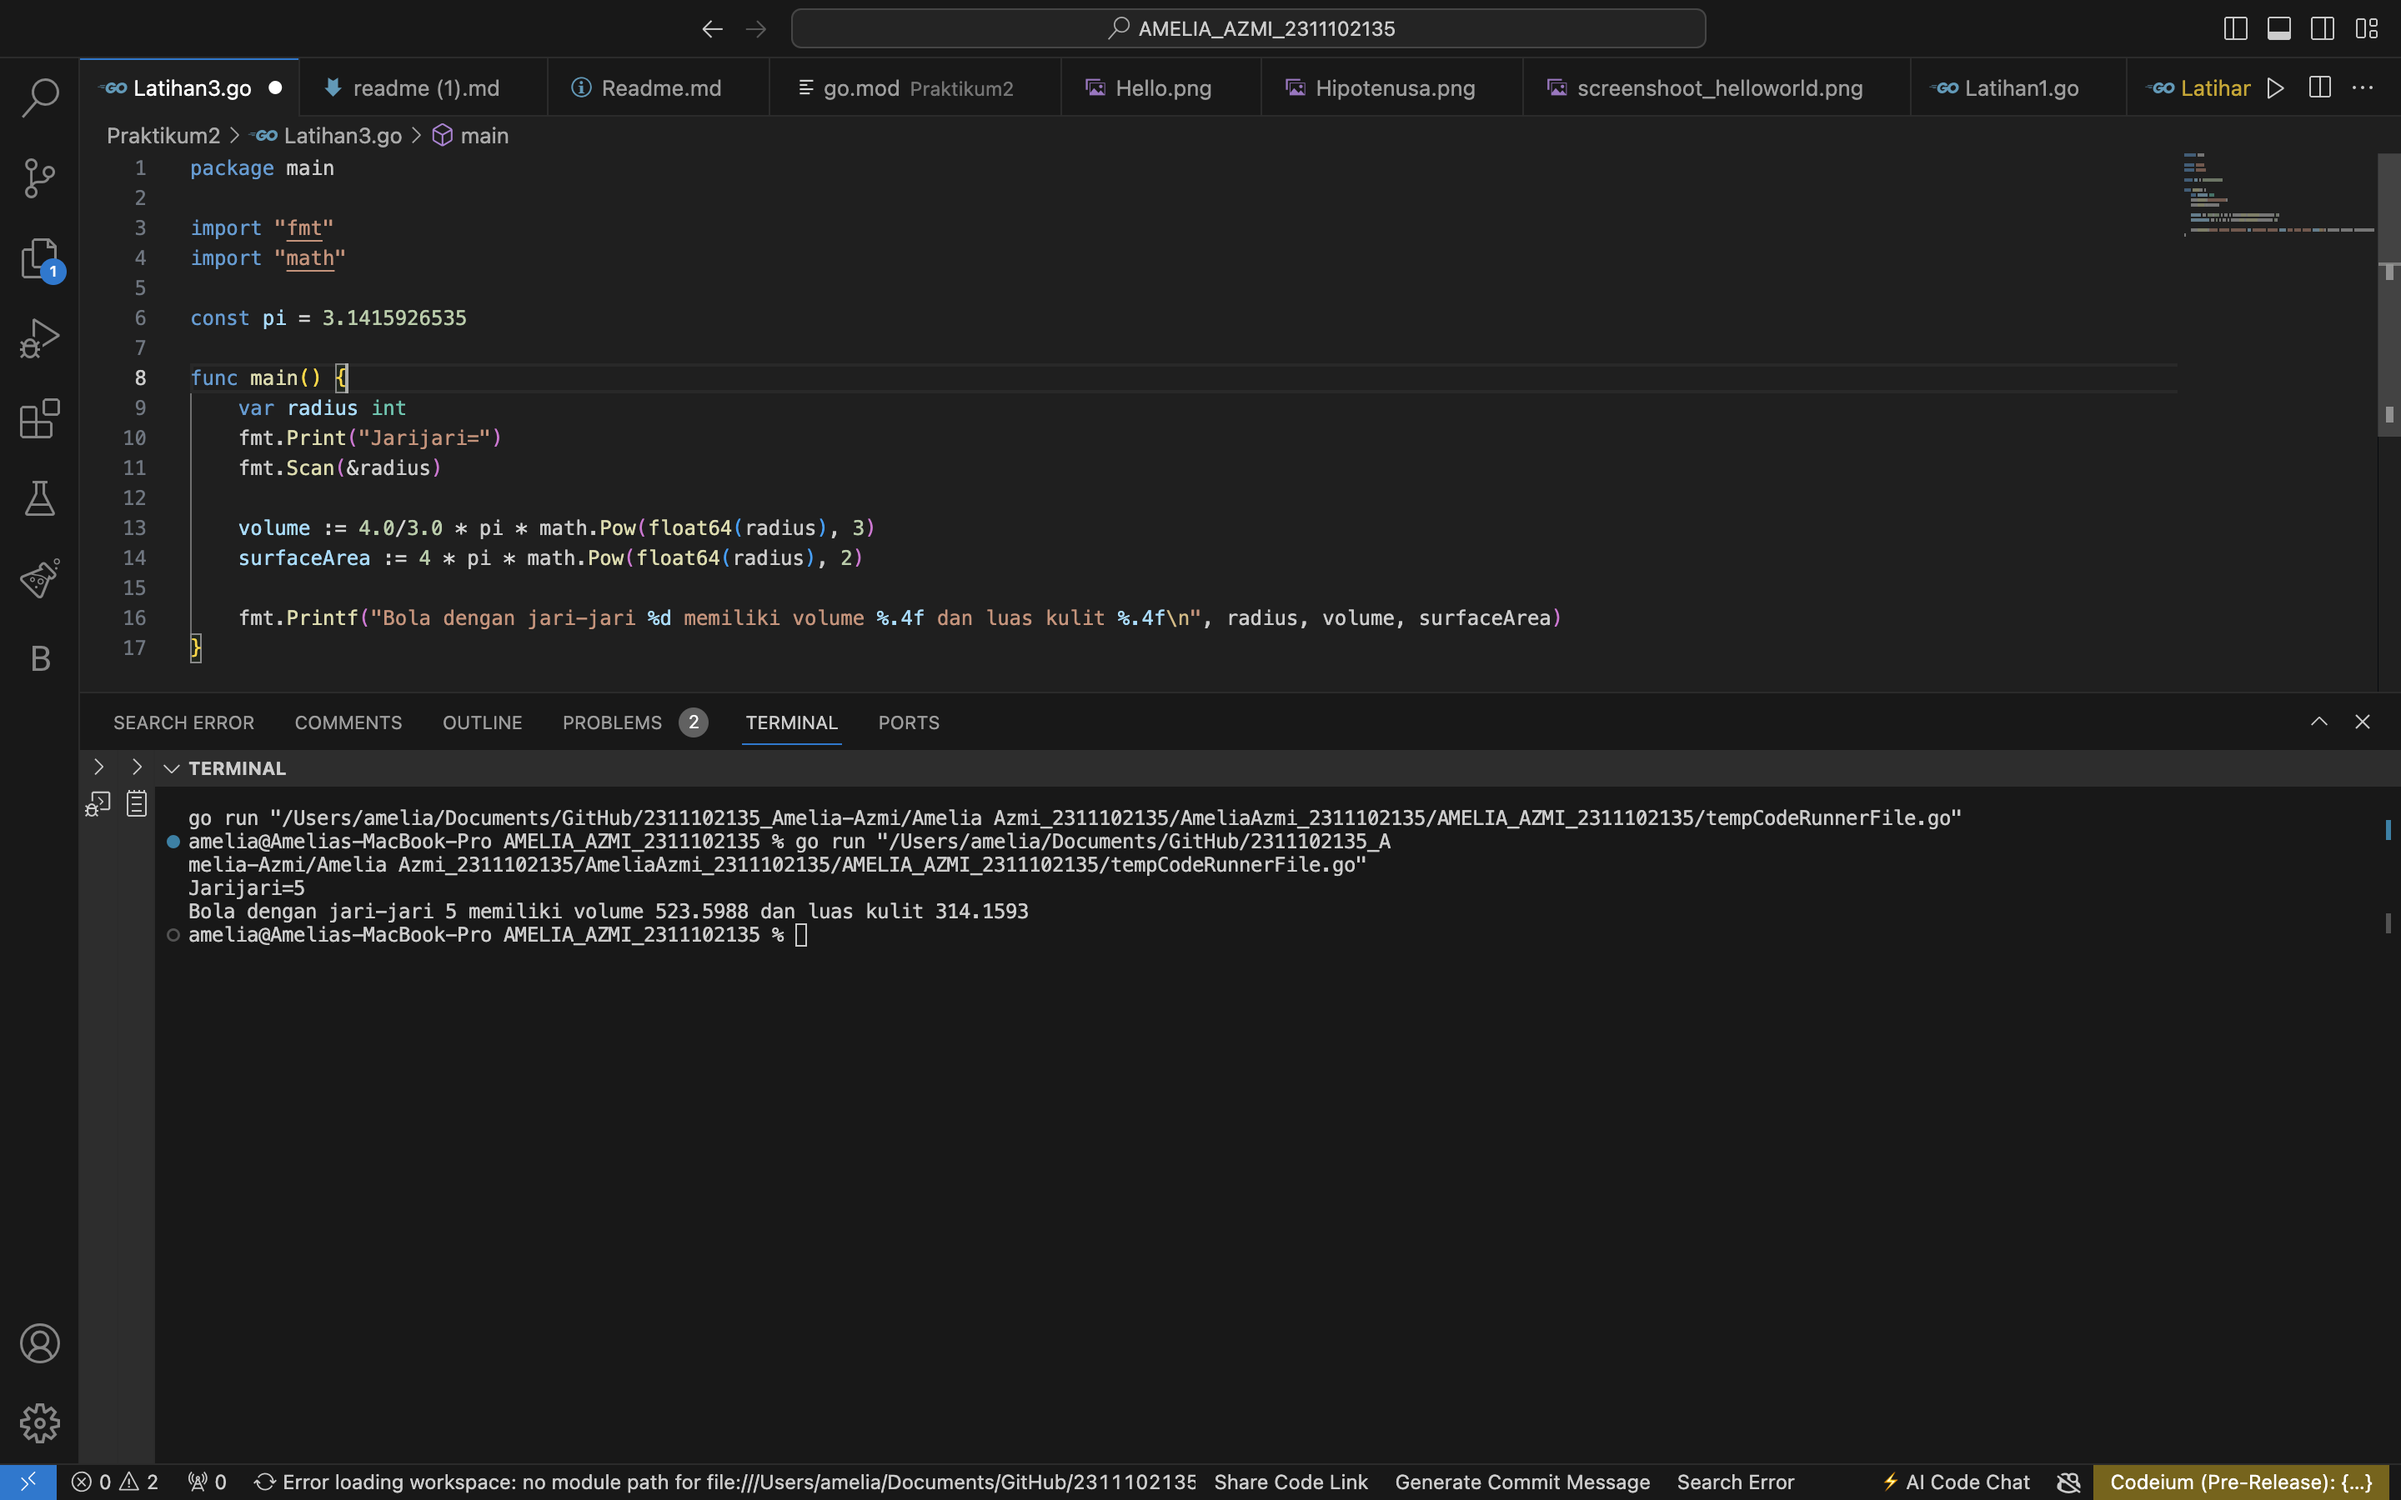
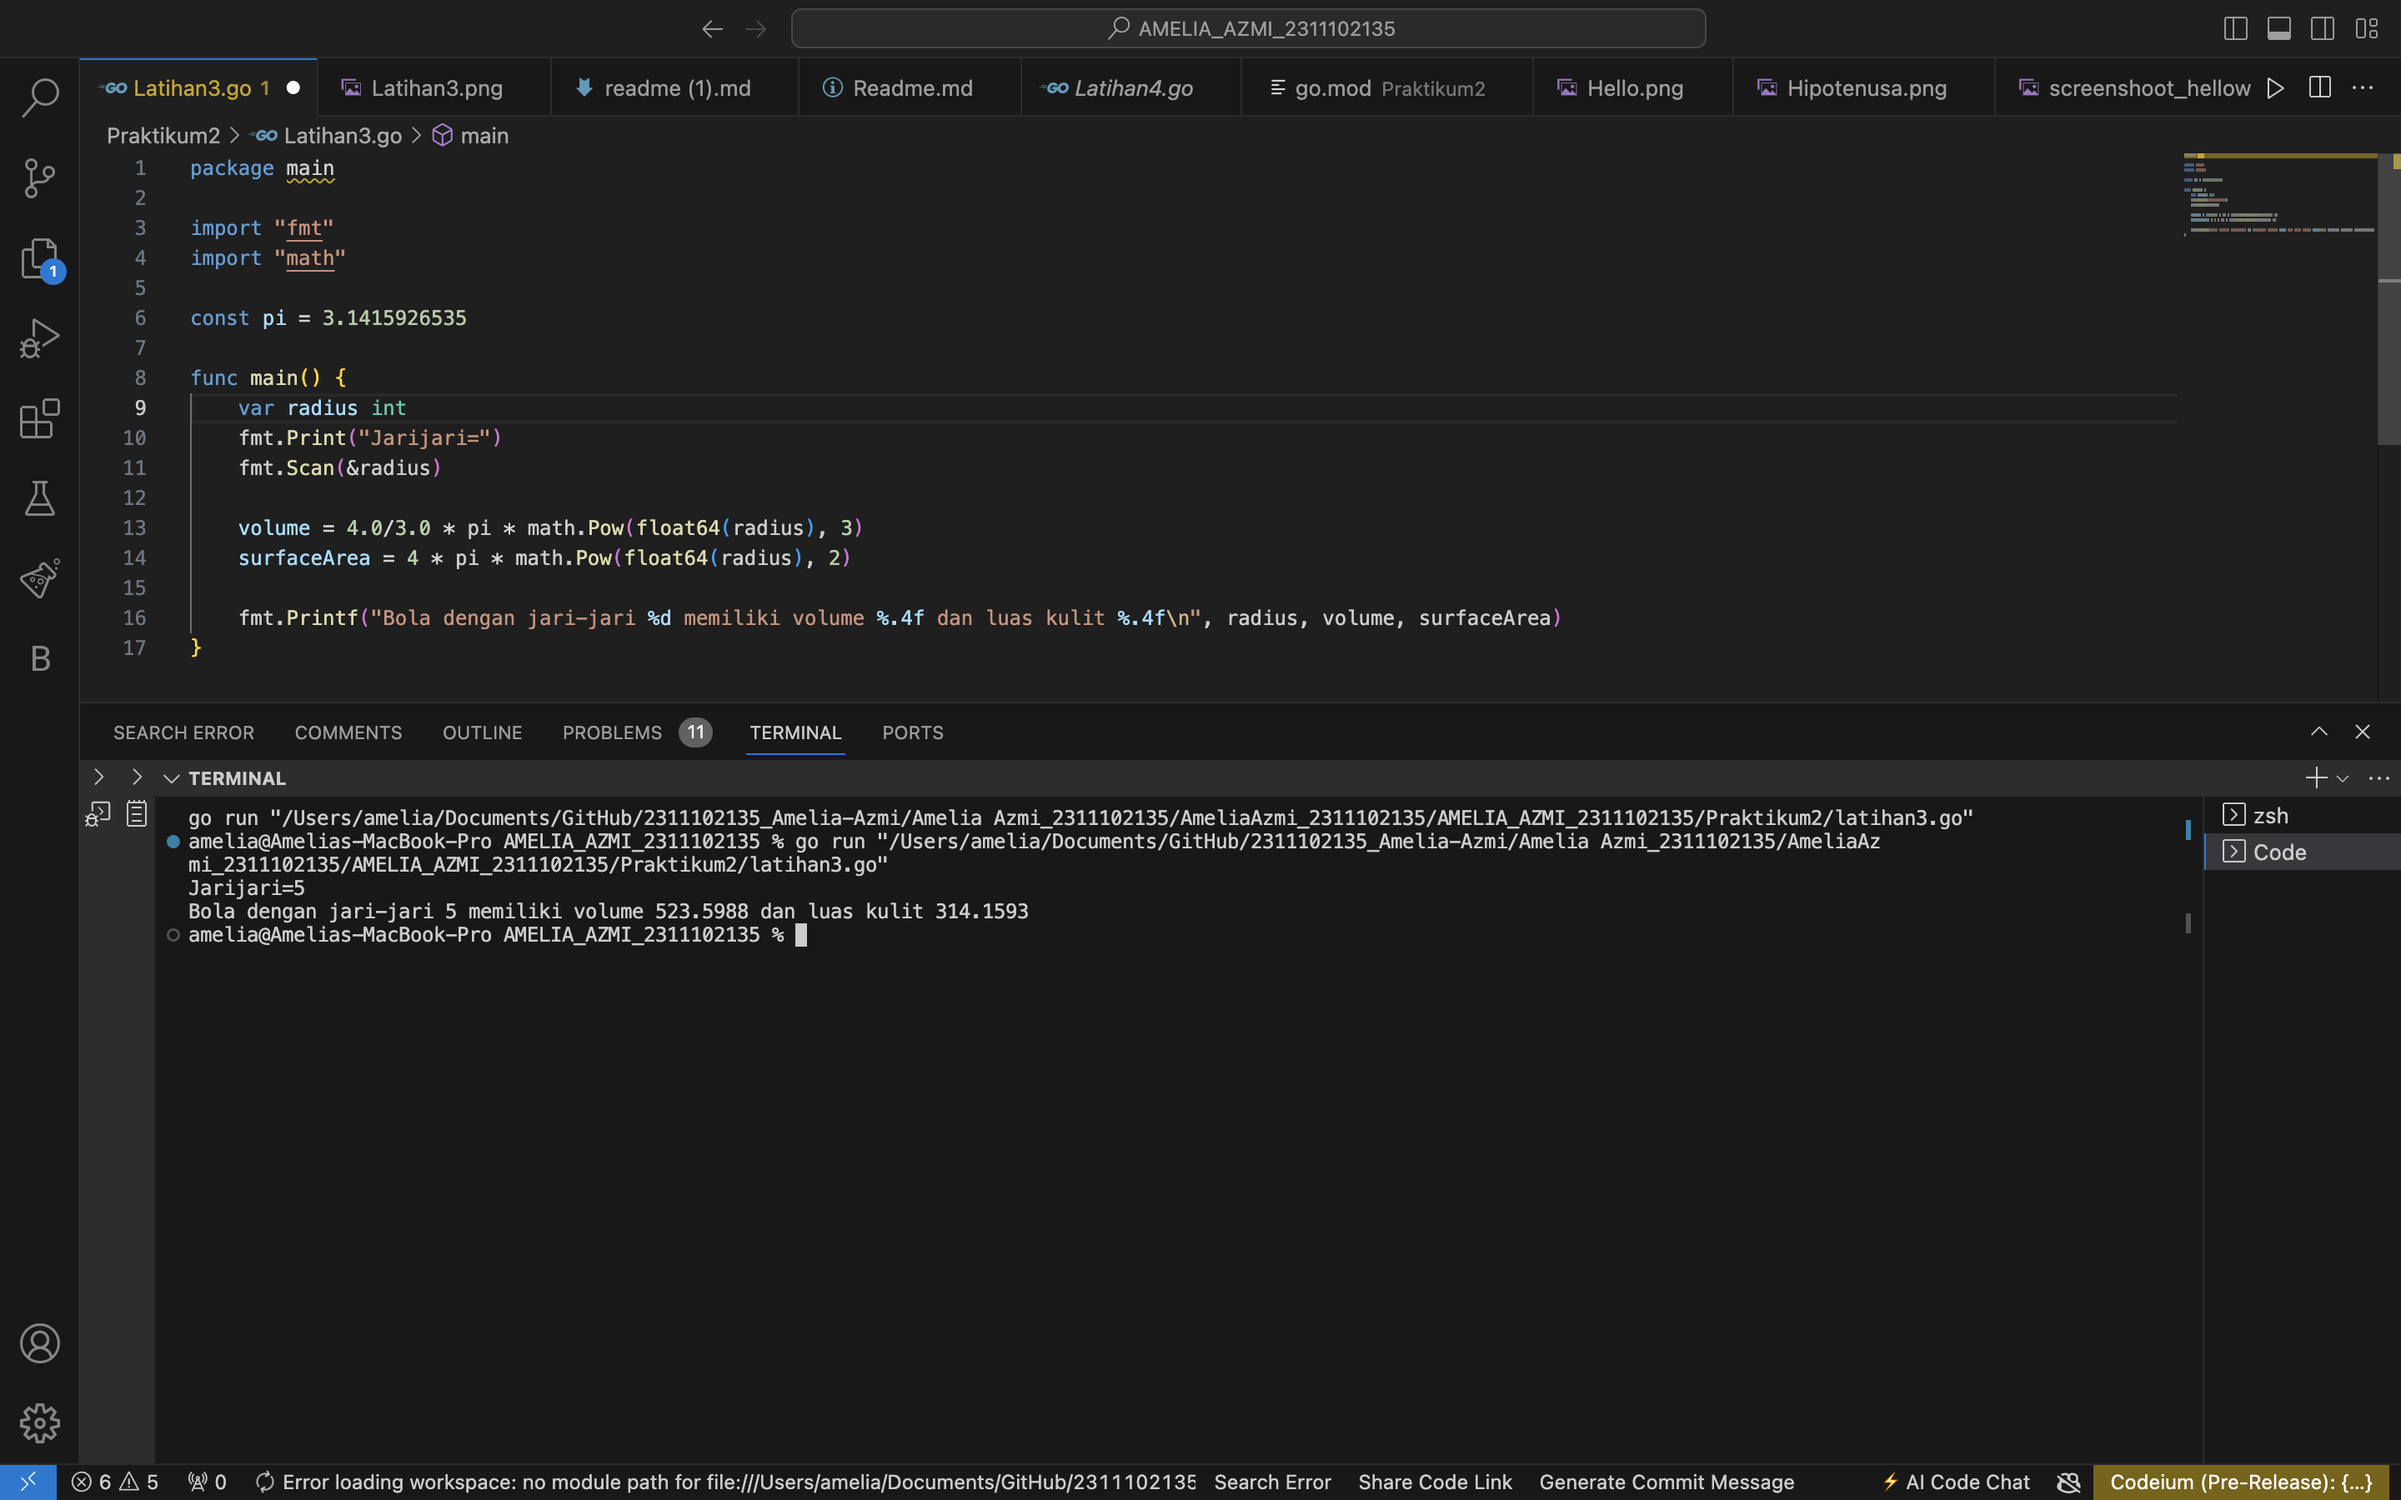
PRAKTIKUM2

diff --git a/Praktikum2/Latihan5.go b/Praktikum2/Latihan5.go
@@ -1,0 +1,24 @@
+package main
+
+import "fmt"
+
+func main() {
+
+	fmt.Println("Masukkan 5 angka:")
+	var a, b, c, d, e int
+	fmt.Scan(&a, &b, &c, &d, &e)
+
+	fmt.Println("Output dari 5 angka:")
+	fmt.Printf("%c%c%c%c%c\n", a, b, c, d, e)
+
+	fmt.Println("Masukkan 3 karakter:")
+	var input string
+	fmt.Scanln(&input)
+
+	if len(input) == 3 {
+		fmt.Println("Output dari 3 karakter:")
+		fmt.Printf("%c%c%c\n", rune(input[0])+1, rune(input[1])+1, rune(input[2])+1)
+	} else {
+		fmt.Println("Input karakter harus terdiri dari 3 karakter")
+	}
+}

diff --git a/Praktikum2/Latihan4.go b/Praktikum2/Latihan4.go
@@ -1,0 +1,20 @@
+package main
+
+import (
+	"fmt"
+)
+
+func main() {
+	var celcius, fahrenheit, kelvin, reamur float64
+
+	fmt.Print("Masukkan suhu dalam celcius: ")
+	fmt.Scanln(&celcius)
+	reamur = celcius * 4 / 5
+	fahrenheit = (celcius * 9 / 5) + 32
+	kelvin = celcius + 273.15
+
+	fmt.Println("Suhu dalam reamur: ", reamur)
+	fmt.Println("Suhu dalam fahrenheit: ", fahrenheit)
+	fmt.Println("Suhu dalam kelvin: ", kelvin)
+
+}

diff --git a/Praktikum2/Latihan3.go b/Praktikum2/Latihan3.go
@@ -1,0 +1,19 @@
+package main
+
+import (
+	"fmt"
+	"math"
+)
+
+const pi = 3.1415926535
+
+func main() {
+	var radius int
+	fmt.Print("Jarijari=")
+	fmt.Scan(&radius)
+
+	volume = 4.0 / 3.0 * pi * math.Pow(float64(radius), 3)
+	surfaceArea = 4 * pi * math.Pow(float64(radius), 2)
+
+	fmt.Printf("Bola dengan jari-jari %d memiliki volume %.4f dan luas kulit %.4f\n", radius, volume, surfaceArea)
+}

diff --git a/Praktikum2/Readme.md b/Praktikum2/Readme.md
@@ -1,4 +1,4 @@
-# <h1 align="center">Laporan Praktikum 2</h1>
+# <h1 align="center">Laporan Praktikum 2 "Riview Struktur Kontrol" </h1>
 <p align="center">Amelia Azmi - 2311102135</p>
 
 
@@ -130,21 +130,24 @@ func main() {
 ```go
 package main
 
-import "fmt"
-import "math"
+import (
+	"fmt"
+	"math"
+)
 
 const pi = 3.1415926535
 
 func main() {
-    var radius int
-    fmt.Print("Jarijari=")
-    fmt.Scan(&radius)
+	var radius int
+	fmt.Print("Jarijari=")
+	fmt.Scan(&radius)
 
-    volume := 4.0/3.0 * pi * math.Pow(float64(radius), 3)
-    surfaceArea := 4 * pi * math.Pow(float64(radius), 2)
+	volume = 4.0 / 3.0 * pi * math.Pow(float64(radius), 3)
+	surfaceArea = 4 * pi * math.Pow(float64(radius), 2)
 
-    fmt.Printf("Bola dengan jari-jari %d memiliki volume %.4f dan luas kulit %.4f\n", radius, volume, surfaceArea)
+	fmt.Printf("Bola dengan jari-jari %d memiliki volume %.4f dan luas kulit %.4f\n", radius, volume, surfaceArea)
 }
+
 ```
 
 ### Output:
@@ -154,19 +157,64 @@ func main() {
 ## Latihan 4
 
 ```go
+package main
 
+import (
+	"fmt"
+)
+
+func main() {
+	var celcius, fahrenheit, kelvin, reamur float64
+
+	fmt.Print("Masukkan suhu dalam celcius: ")
+	fmt.Scanln(&celcius)
+	reamur = celcius * 4 / 5
+	fahrenheit = (celcius * 9 / 5) + 32
+	kelvin = celcius + 273.15
+
+	fmt.Println("Suhu dalam reamur: ", reamur)
+	fmt.Println("Suhu dalam fahrenheit: ", fahrenheit)
+	fmt.Println("Suhu dalam kelvin: ", kelvin)
+
+}
 ```
 
 ### Output:
 
+![Alt text](Latihan4.png)
 
 ## Latihan 5
 
 ```go
+package main
 
+import "fmt"
+
+func main() {
+
+	fmt.Println("Masukkan 5 angka:")
+	var a, b, c, d, e int
+	fmt.Scan(&a, &b, &c, &d, &e)
+
+	fmt.Println("Output dari 5 angka:")
+	fmt.Printf("%c%c%c%c%c\n", a, b, c, d, e)
+
+	fmt.Println("Masukkan 3 karakter:")
+	var input string
+	fmt.Scanln(&input)
+
+	if len(input) == 3 {
+		fmt.Println("Output dari 3 karakter:")
+		fmt.Printf("%c%c%c\n", rune(input[0])+1, rune(input[1])+1, rune(input[2])+1)
+	} else {
+		fmt.Println("Input karakter harus terdiri dari 3 karakter")
+	}
+}
 ```
 
 ### Output:
+
+![Alt text](Latihan5.png)
 
 
 
